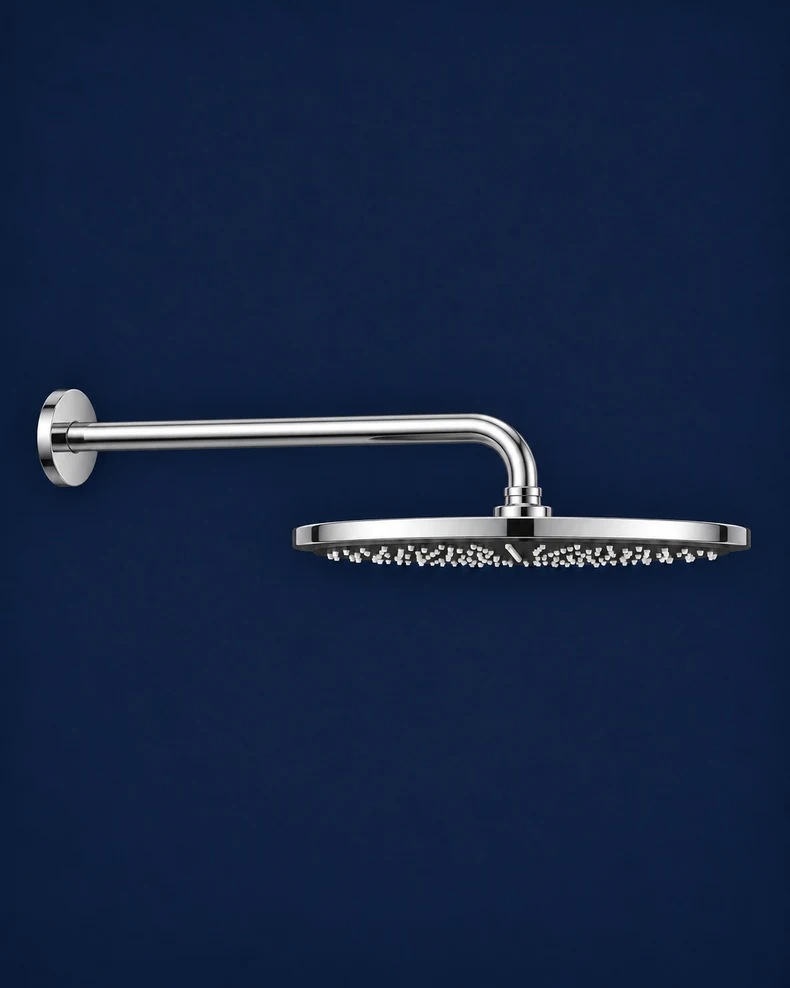
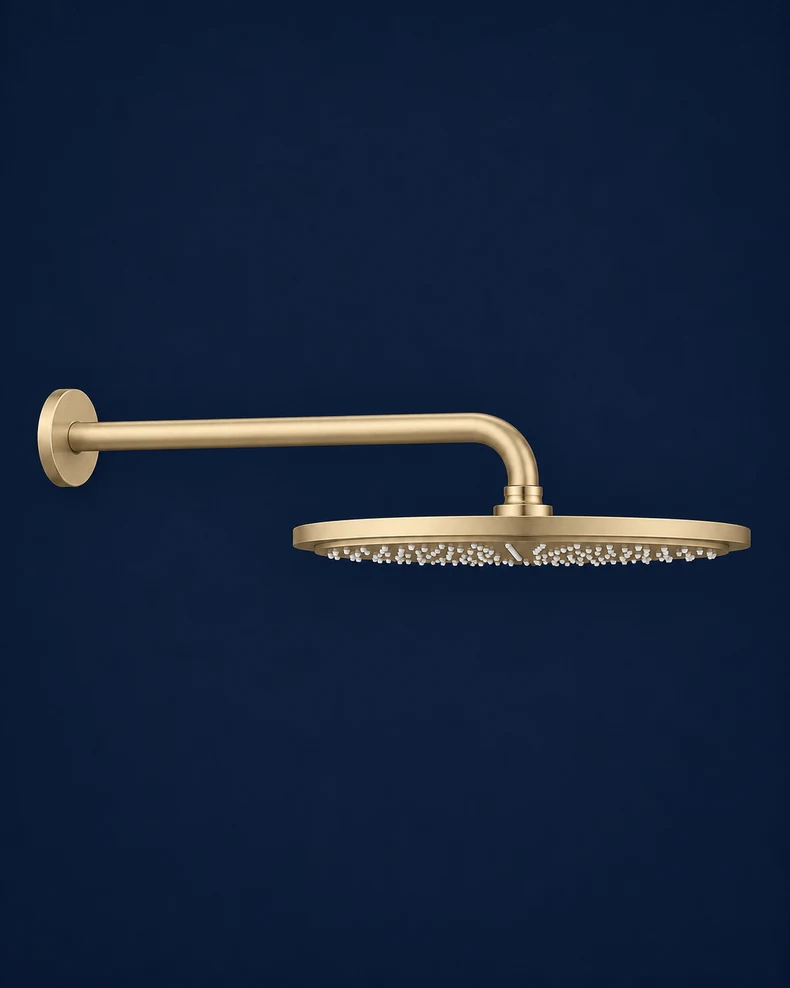
Show Rainshower SmartActive spray face and Brushed Gold cover

Changed region(s): [[0.0304, 0.3947, 0.9722, 0.5769]]

diff --git a/storefront-assets/accessory_families.py b/storefront-assets/accessory_families.py
@@ -39,6 +39,7 @@ FAMILIES = {
                       finish_photos={finish: f"smartactive-{finish}" for finish in ("brushed-gold", "black", "chrome")},
                       finish_prices={"brushed-gold": 750, "black": 450, "chrome": None},
                       card_note="قطر 30 سم · السعر يشمل ساعد الدش",
+                      detail_photo="smartactive-face",
                       description="رأس دش دائري بقطر 30 سم، بتصميم نحيف وعصري. السعر يشمل ساعد الدش.",
                       sprays={
                           "PureRain": "رذاذ مطري ناعم وواسع ينساب من الفوّهات الخارجية ليغطّي الجسم بالكامل.",
@@ -236,6 +237,16 @@ def detail(slug, registry, warranty, origin_label, related=""):
         )
         spray_details = (f'<p><strong>نمطان للرش</strong></p><ul>{spray_items}</ul>'
                          f'<p>{escape(spec["control_note"])}</p>')
+    detail_photo = ""
+    if "detail_photo" in spec:
+        detail_photo = f"""
+        <figure class="family-detail-photo">
+          <img src="/assets/{spec['detail_photo']}.webp" alt="لقطة مقرّبة لوجه طاسة الدش تُظهر الفوّهات الخارجية وفتحات الرش الوسطى"
+               width="774" height="1000" loading="lazy" decoding="async">
+          <figcaption><strong>تفاصيل وجه الطاسة</strong>
+            <span>لقطة مقرّبة لفوّهات الرش الخارجية والفتحات الطولية في المنتصف.</span>
+          </figcaption>
+        </figure>"""
     origin = f'<span class="velato-origin">{escape(origin_label)}</span>' if origin_label else ''
     outlets = outlet_label(spec)
     outlet_note = f'<p><strong>{outlets}</strong></p>' if outlets else ""
@@ -244,7 +255,7 @@ def detail(slug, registry, warranty, origin_label, related=""):
   <div class="product-image"><img src="{registry["images"][selected]}" alt="{spec["label"]} · {label}" width="790" height="988" loading="lazy" decoding="async">
     <button class="circle" data-save type="button" aria-label="إضافة إلى المفضّلة" aria-pressed="false">♡</button></div>
   <div class="product-info"><p class="category">{spec["label"]}</p><h1><bdi dir="ltr">{spec["name"]}</bdi></h1>
-    {origin}<p>{spec["description"]}</p>{outlet_note}{spray_details}{controls}
+    {origin}<p>{spec["description"]}</p>{outlet_note}{spray_details}{detail_photo}{controls}
     <div class="family-summary" aria-live="polite" aria-atomic="true"><div><strong>سعر القطعة</strong><span data-family-summary>{label}</span></div>
     <bdi dir="ltr" data-unit-price>${price:,}</bdi></div>
     <div class="qty"><span>الكمية</span><button type="button" data-quantity-change="-1" aria-label="تقليل الكمية">−</button><output data-quantity>1</output><button type="button" data-quantity-change="1" aria-label="زيادة الكمية">+</button></div>
@@ -262,6 +273,8 @@ def product_data(slug, registry, origin, country):
                "url": url if "photo" in spec else url + "?" + urlencode(dict(zip(axes, key.split("|"))))}
               for key, amount in registry["prices"].items() if amount is not None]
     images = dict.fromkeys([cover(slug), *registry["images"].values()])
+    if "detail_photo" in spec:
+        images[f'/assets/{spec["detail_photo"]}.webp'] = None
     data = {"@type": "Product", "@id": url + "#product", "sku": slug,
             "image": [origin + path for path in images], "offers": offers}
     if country:

diff --git a/storefront-assets/velato.py b/storefront-assets/velato.py
@@ -721,6 +721,14 @@ display:flex;flex-direction:column;border-color:#d8c9b6;border-radius:8px}
 .velato-set-thumbnails img{aspect-ratio:4/5;object-fit:cover}
 .velato-set-thumbnails .velato-thumb-caption{width:100%;padding:.3rem .1rem .15rem;color:#5b462c;
 font-family:inherit;font-size:.72rem;font-weight:600;line-height:1.45;text-align:center}
+.family-detail-photo{display:grid;grid-template-columns:minmax(0,10rem) minmax(0,1fr);align-items:center;
+  gap:clamp(.8rem,3vw,1.5rem);margin:1.25rem 0 1.5rem;padding:.6rem;border:1px solid #6c593d;
+  border-radius:1rem;background:#211e19;color:#f4ede1}
+.family-detail-photo img{display:block;width:100%;height:auto;border-radius:.55rem}
+.family-detail-photo figcaption{padding-inline-end:.5rem;line-height:1.6}
+.family-detail-photo figcaption strong{display:block;color:#f7e3bd;font-size:1.05rem}
+.family-detail-photo figcaption span{display:block;margin-top:.25rem;color:#d7cbbc;font-size:.875rem}
+@media(max-width:520px){.family-detail-photo{grid-template-columns:minmax(0,44%) minmax(0,1fr)}}
 .product-info .velato-origin{display:inline-block;margin:.15rem 0 .7rem;padding:.25rem .65rem;
 border:1px solid #aa8a5f;border-radius:100px;color:#5b462c;font-size:.76rem;letter-spacing:.025em}
 #shower-arm .diameter-picker{min-inline-size:0;margin:1.25rem 0 .85rem;padding:0;border:0}
